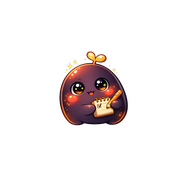
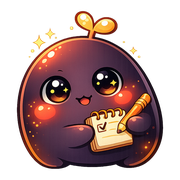
랜딩 헤더 경계 띠 제거와 마스코트 아바타 실크기 복원
상황:
홈 히어로의 sticky 헤더가 flow 공간 52px를 차지해 페이지 맨 위에 민짜 배경
띠가 남고, 히어로의 그리드/틴트 배경과 경계선처럼 분리돼 보였다. CSS 주석은
"투명 헤더가 히어로 위에 뜬다"고 적혀 있었지만 실제 레이아웃은 아니었다.
아바타 자산은 소스(codaro-character.png 1536x1024, 캐릭터 실영역 664x717)의
투명 여백과 저알파 찌꺼기 픽셀을 그대로 안고 합성돼 avatar-full 512px 캔버스
안의 캐릭터가 196x211px뿐이었고, 히어로 96px 박스에서 실제로는 약 38px로
보였다. 헤더 40px 박스의 avatar-small도 같은 병으로 약 18px로 보였다.

변경:
assets/brand/tools/buildBrandAssets.py에 trimTransparentPadding(알파 8 초과
픽셀 bbox 크롭)을 추가해 합성 전에 적용. 몸통이 곧 얼굴인 블롭 마스코트라
실루엣 측면을 평평하게 자르던 createFaceCrop/createSidebarCrop을 제거하고 세
자산 모두 전신에 용도별 패딩(full 0.06, small 0.08, face 0.02)으로 통일.
brandMark.json hero.avatarPx 96에서 128로 상향. 재생성 자산을 mascot/work,
editor/public, landing/static, landing/static/run(빌드 산출 사본과 바이트 동일
확인 후 직접 복사)에 동기화. landing/src/styles/publicShell.css에
--public-header-height 변수(52px, 820px 이하 56px) 도입, homeAstryx.css의 홈
전용 .homeContinuous에 그 높이만큼 음수 상단 마진을 걸어 히어로 배경이 투명
헤더 뒤까지 이어지게 하고 하드코딩된 52px/56px 패딩을 변수로 교체.

영향:
홈 첫 화면이 경계 없는 한 장으로 렌더되고 히어로 마스코트는 약 38px에서 약
112px 체감으로, 헤더/에디터 사이드바/채팅 아바타와 파비콘도 같은 자산이라
함께 커진다. learn 등 다른 라우트는 공용 .homeAstryx가 아니라 홈 전용
.homeContinuous에만 마진을 걸어 flow가 그대로다. 캡처 소스 자산이 바뀌어 제품
스크린샷 sourceSetHash가 드리프트하며 재캡처는 후속 커밋에서 수행한다.

검증:
uv run python -X utf8 assets/brand/tools/buildBrandAssets.py 재생성 후 PIL
알파 bbox 실측으로 avatar-full 내 캐릭터 196x211에서 416x450 확인, 파비콘
32px/16px 다운스케일 가독 확인. landing npm run build 통과(프리렌더 557
라우트). vite preview + Playwright 스크린샷 3장(홈 상단 다크, 스크롤 상태,
learn 라이트)으로 상단 띠 소멸, 스크롤 시 헤더 블러 배경 유지, learn 무회귀를
확인했다.

diff --git a/landing/src/styles/homeAstryx.css b/landing/src/styles/homeAstryx.css
@@ -49,6 +49,11 @@
    sticky는 스크롤 조상이 없어야 동작하므로 여기에 overflow를 걸지 않는다. */
 .homeContinuous {
   position: relative;
+  /* 헤더는 sticky라 flow에서 자기 높이만큼 자리를 차지한다. 홈이 그 높이만큼
+     위로 올라와야 히어로의 그리드/틴트 배경이 투명 헤더 뒤까지 이어지고,
+     페이지 맨 위에 민짜 배경 띠(경계선)가 생기지 않는다. 헤더와 겹치는 만큼은
+     .homeProductHero의 상단 패딩이 비워 준다. */
+  margin-top: calc(-1 * var(--public-header-height));
 }
 
 .homeProductHero {
@@ -58,8 +63,8 @@
   display: grid;
   min-height: 100svh;
   align-content: center;
-  /* 투명 헤더(52px)가 히어로 위에 떠 있다. 그만큼을 위쪽에 비워 겹치지 않게 한다. */
-  padding-block: calc(52px + 28px) 32px;
+  /* 투명 헤더가 히어로 위에 떠 있다. 그 높이만큼 위쪽을 비워 겹치지 않게 한다. */
+  padding-block: calc(var(--public-header-height) + 28px) 32px;
   /* 라이트 모드는 흰 바탕 그대로 둔다. accent 틴트는 다크에서만 깐다. */
   background:
     radial-gradient(ellipse 90% 55% at 50% -8%,
@@ -598,7 +603,7 @@
   .homeProductHero {
     position: static;
     min-height: 0;
-    padding-block: calc(56px + 24px) 40px;
+    padding-block: calc(var(--public-header-height) + 24px) 40px;
   }
 
   .homeHeroLayout {

diff --git a/landing/src/styles/publicShell.css b/landing/src/styles/publicShell.css
@@ -1,3 +1,9 @@
+:root {
+  /* 투명 헤더의 높이. 홈은 이 값만큼 위로 올라와 히어로 배경을 헤더 뒤까지 잇는다
+     (homeAstryx.css). 값을 바꾸면 두 파일이 같이 움직인다. */
+  --public-header-height: 52px;
+}
+
 .publicHeader {
   position: sticky;
   top: 0;
@@ -15,7 +21,7 @@
 .publicHeaderInner {
   display: grid;
   width: min(1200px, calc(100% - 40px));
-  min-height: 52px;
+  min-height: var(--public-header-height);
   margin-inline: auto;
   grid-template-columns: auto minmax(0, 1fr) auto;
   align-items: center;
@@ -206,9 +212,13 @@
 }
 
 @media (max-width: 820px) {
+  :root {
+    --public-header-height: 56px;
+  }
+
   .publicHeaderInner {
     width: min(100% - 28px, 720px);
-    min-height: 56px;
+    min-height: var(--public-header-height);
     grid-template-columns: minmax(0, 1fr) auto;
     gap: 12px;
   }

diff --git a/assets/brand/tools/buildBrandAssets.py b/assets/brand/tools/buildBrandAssets.py
@@ -34,6 +34,21 @@ DECORATION_TOP_MARGIN = 64
 DECORATION_BOTTOM_MARGIN = 48
 
 
+def trimTransparentPadding(image: Image.Image, alphaThreshold: int = 8) -> Image.Image:
+    """캐릭터 주변의 투명 여백을 잘라낸다.
+
+    소스 캔버스에는 저알파 찌꺼기 픽셀이 흩어져 있어 getbbox()를 그대로 쓰면
+    사실상 전체 캔버스가 잡힌다. 알파 임계값을 넘는 픽셀만으로 bbox를 구해
+    실제 캐릭터 영역만 남긴다. 이걸 건너뛰면 makeSquareAsset이 빈 여백까지
+    포함해 스케일을 계산해서 최종 자산 안의 캐릭터가 절반 이하로 작아진다.
+    """
+    alphaMask = image.getchannel("A").point(lambda alpha: 255 if alpha > alphaThreshold else 0)
+    bbox = alphaMask.getbbox()
+    if bbox is None:
+        raise ValueError("Avatar source has no visible pixels above the alpha threshold")
+    return image.crop(bbox)
+
+
 def makeSquareAsset(image: Image.Image, size: int, paddingRatio: float) -> Image.Image:
     canvas = Image.new("RGBA", (size, size), (0, 0, 0, 0))
     usableSize = int(size * (1 - paddingRatio * 2))
@@ -46,24 +61,6 @@ def makeSquareAsset(image: Image.Image, size: int, paddingRatio: float) -> Image
     offsetY = (size - resized.height) // 2
     canvas.paste(resized, (offsetX, offsetY), resized)
     return canvas
-
-
-def createFaceCrop(image: Image.Image) -> Image.Image:
-    width, height = image.size
-    left = int(width * 0.18)
-    top = int(height * 0.02)
-    right = int(width * 0.82)
-    bottom = int(height * 0.76)
-    return image.crop((left, top, right, bottom))
-
-
-def createSidebarCrop(image: Image.Image) -> Image.Image:
-    width, height = image.size
-    left = int(width * 0.12)
-    top = int(height * 0.02)
-    right = int(width * 0.88)
-    bottom = int(height * 0.86)
-    return image.crop((left, top, right, bottom))
 
 
 def savePng(image: Image.Image, targetPath: Path) -> None:
@@ -296,11 +293,13 @@ def main() -> None:
             )
         avatarBase = Image.open(CHARACTER_SOURCE).convert("RGBA")
         avatarSource = CHARACTER_SOURCE
+    avatarBase = trimTransparentPadding(avatarBase)
+    # 마스코트는 몸통이 곧 얼굴인 블롭이라 확대 크롭은 실루엣만 자른다.
+    # 세 자산 모두 전신을 쓰고 용도별 패딩만 달리한다.
+    # full=히어로(여유 있는 그림자 공간), small=크롬/에디터 아바타, face=파비콘(최대 크기).
     avatarFull = makeSquareAsset(avatarBase, size=512, paddingRatio=0.06)
-    sidebarCrop = createSidebarCrop(avatarBase)
-    avatarSmall = makeSquareAsset(sidebarCrop, size=256, paddingRatio=0.12)
-    faceCrop = createFaceCrop(avatarBase)
-    avatarFace = makeSquareAsset(faceCrop, size=512, paddingRatio=0.12)
+    avatarSmall = makeSquareAsset(avatarBase, size=256, paddingRatio=0.08)
+    avatarFace = makeSquareAsset(avatarBase, size=512, paddingRatio=0.02)
     brandMark = json.loads(BRAND_MARK_PATH.read_text(encoding="utf-8"))
     faviconPx = int(brandMark.get("favicon", {}).get("pngPx", 192))
     favicon = avatarFace.resize((faviconPx, faviconPx), Image.Resampling.LANCZOS).filter(
